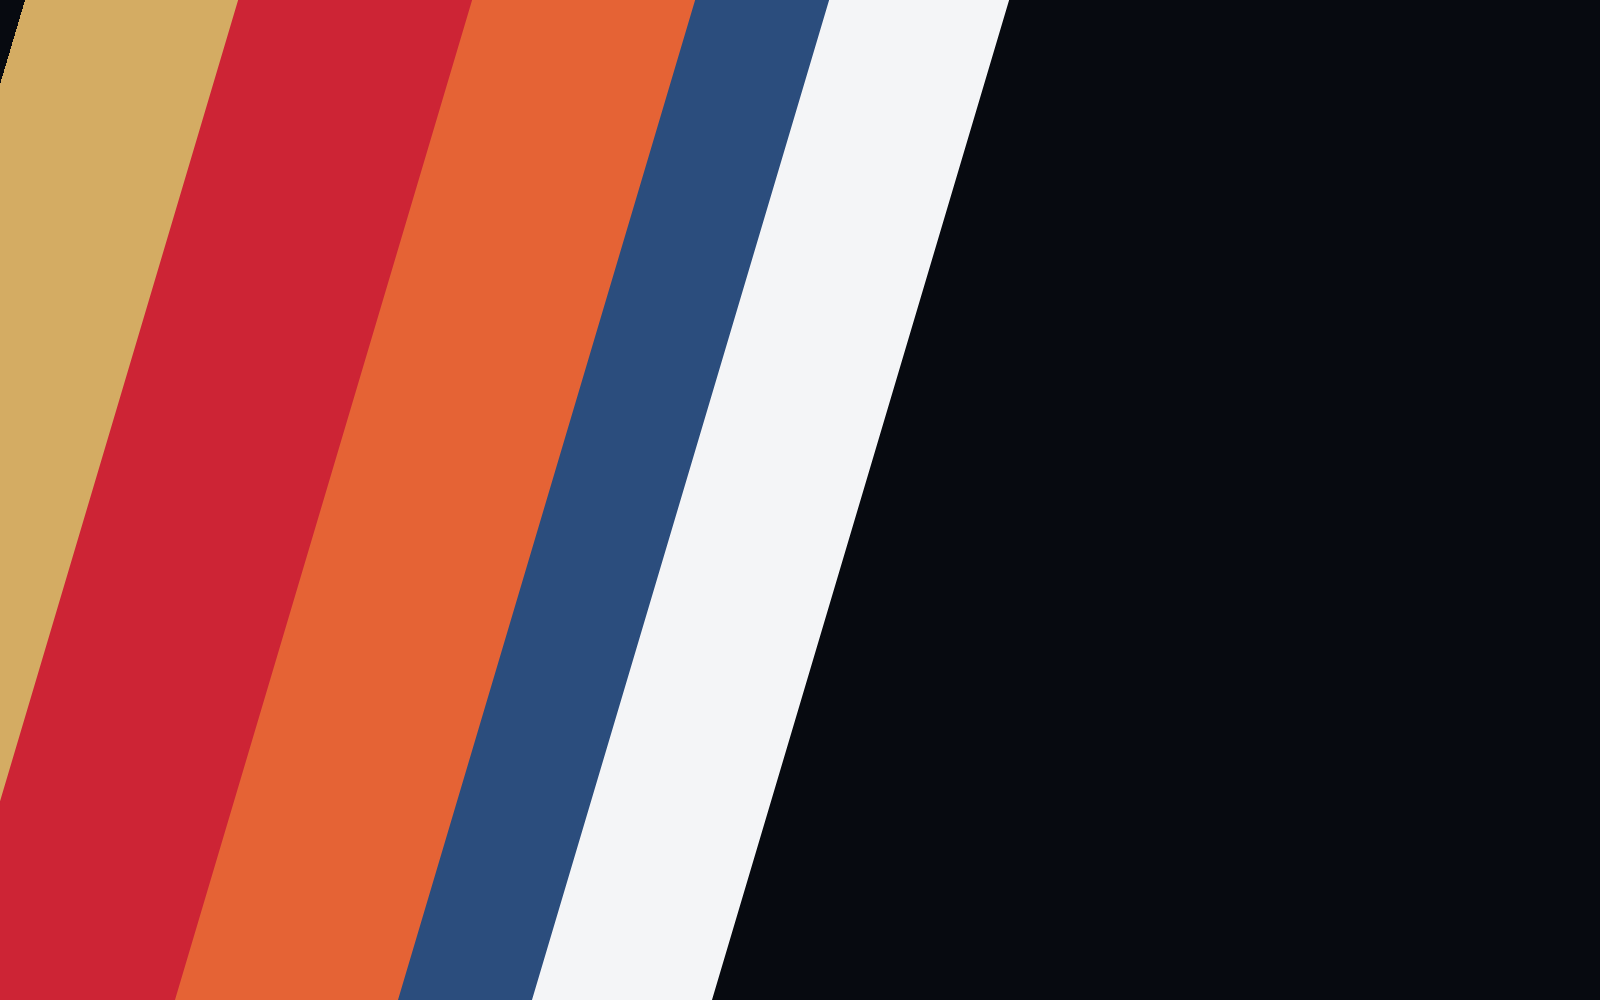
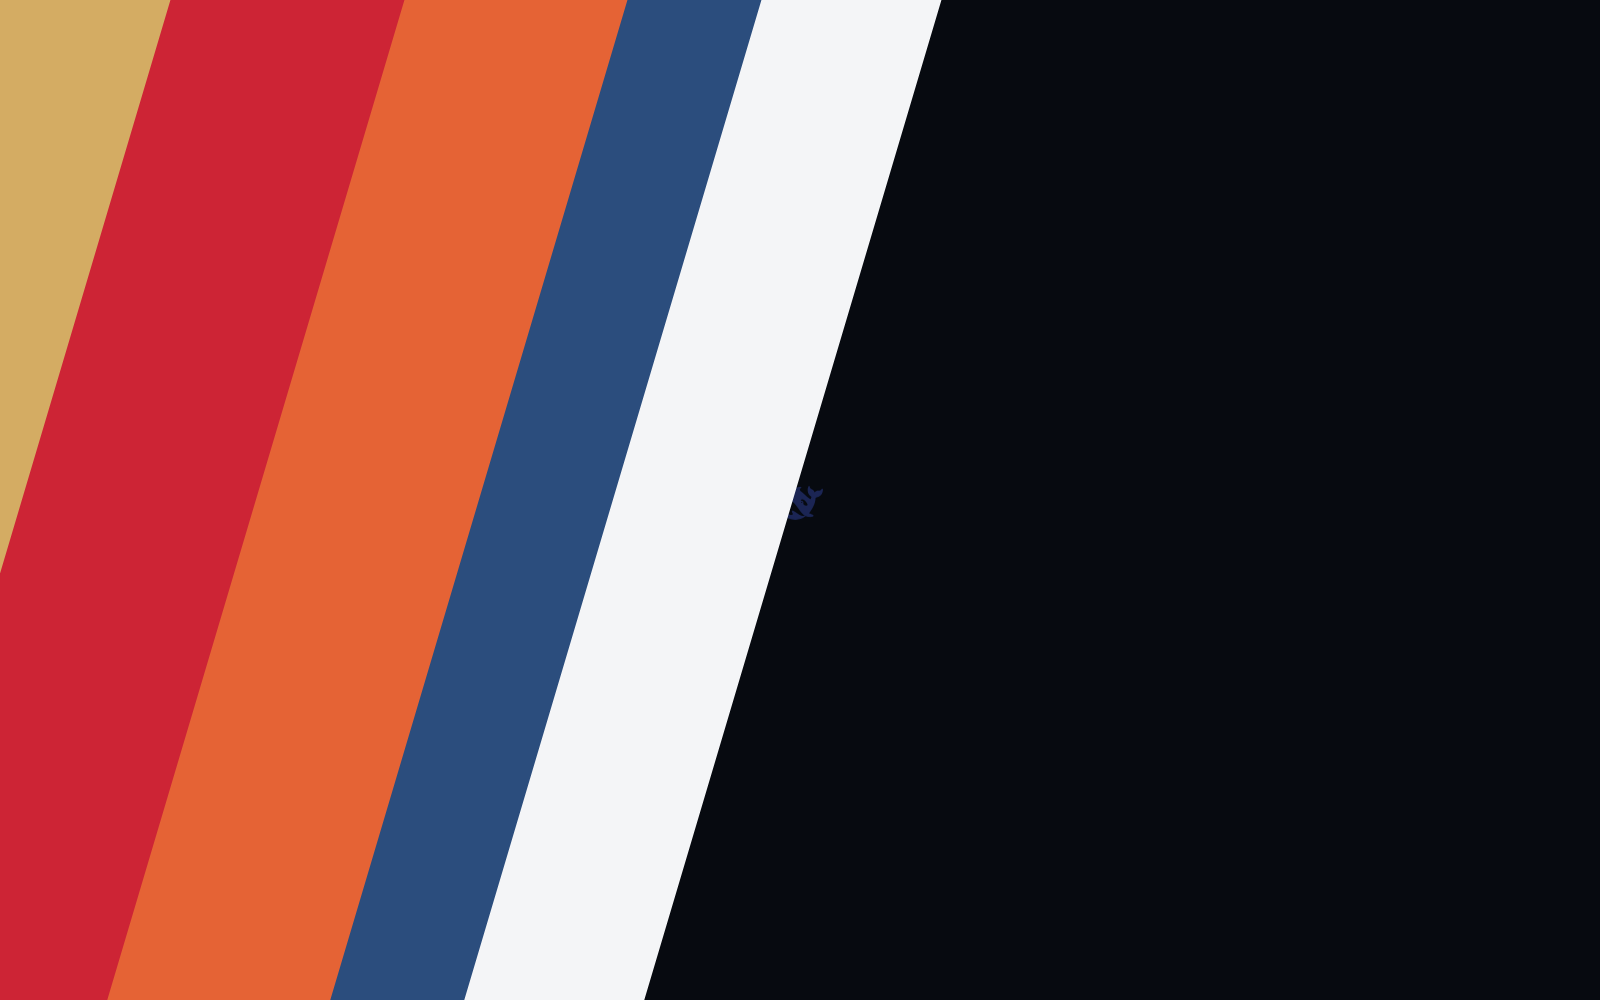
Scope the pre-plugin canvas to the boot interval; document the package
- the Host's dark !important ground now stops applying once html[data-sf-live]
  is set, so the theme owns the document ground after boot
- the client paints that ground from the active palette (read on body, because
  the dark palette lives there), covering the no-canvas case in either slot
- boot test guards the scoping; docs: HANDOFF rewritten for the packaged
  state, DESIGN gains implementation notes (section 11), README + PACKAGE.md

diff --git a/src/client.js b/src/client.js
@@ -237,6 +237,21 @@ function install(ctx) {
   var refreshTimer = 0;
   var appliedMode = currentMode();
   var appliedSignature = '';
+
+  /**
+   * Paint the document ground from the active palette.
+   *
+   * The frame and the transcript are transparent, so `html` is the colour that
+   * shows if the canvas is ever missing (no 2D context, or a browser that
+   * refuses it). It has to come from `body`: the dark palette lives on the body
+   * element, so the root's own `--sf-paper-1` is always the light one.
+   */
+  function paintDocumentGround() {
+    var paper = getComputedStyle(body).getPropertyValue('--sf-paper-1');
+    paper = paper && paper.trim();
+    if (paper) document.documentElement.style.backgroundColor = paper;
+  }
+
   function scheduleRefresh() {
     window.clearTimeout(refreshTimer);
     refreshTimer = window.setTimeout(function () {
@@ -249,10 +264,12 @@ function install(ctx) {
       if (mode === appliedMode && nextSignature === appliedSignature) return;
       appliedMode = mode;
       appliedSignature = nextSignature;
+      paintDocumentGround();
       controller.setMode(mode);
       controller.refresh();
     }, 220);
   }
+  paintDocumentGround();
 
   if (typeof MutationObserver === 'function') {
     var observer = new MutationObserver(scheduleRefresh);

diff --git a/_tools/boot.test.js b/_tools/boot.test.js
@@ -101,8 +101,15 @@ ok('the band carries no unresolved var()', !/var\(--sf-livery/.test(css));
 
 // The readiness flag must retract both marks, and the fallback must exist.
 ok('readiness hides the band', /html\[data-sf-live\]::before\{[^}]*visibility:hidden/.test(css));
+ok('readiness hides the whale', /html\[data-sf-live\] body::before\{[^}]*visibility:hidden/.test(css));
 ok('readiness fades the curtain', /html\[data-sf-live\]::after\{animation:sf-plate-out 220ms/.test(css));
 ok('a fallback retracts the curtain even with no client', /html::after\{[^}]*animation:sf-plate-out 420ms ease-out 6000ms forwards/.test(css));
+
+// The dark pre-plugin canvas must stop applying once the flag is set: an
+// unscoped !important background would outrank the theme's own ground forever.
+ok('the pre-plugin canvas is scoped to the boot interval',
+  /html:not\(\[data-sf-live\]\)/.test(css) && !/(^|[,{])html,body\{background-color/.test(css),
+  css.slice(0, 200));
 
 // Reduced motion: no band, but the whale and the readiness lift stay.
 ok('reduced motion drops the band', /prefers-reduced-motion:reduce\)\{html::before\{display:none\}/.test(css));

diff --git a/src/host.js b/src/host.js
@@ -132,9 +132,12 @@ function bootStyle(markUri, random) {
 
   return [
     /* -- 1. the pre-plugin canvas ------------------------------------------ */
+    // Scoped to the interval before the readiness flag: after it, the document
+    // ground belongs to the theme again (and !important here would otherwise
+    // outrank the palette for the life of the page).
     // `background-color` is !important because ui-theme's own boot row, which
-    // renders after this one, paints `body { background-color: #fff }`.
-    'html,body{background-color:' + ground + ' !important}',
+    // renders before this one, paints `body { background-color: #fff }`.
+    'html:not([data-sf-live]),html:not([data-sf-live]) body{background-color:' + ground + ' !important}',
     // No !important: the presenter writes the resolved scheme as an inline
     // style the moment the app is up, and an inline style is what should win.
     ':root{color-scheme:dark}',

diff --git a/_tools/client.test.js b/_tools/client.test.js
@@ -171,7 +171,9 @@ global.window = windowStub;
 global.document = document;
 global.MutationObserver = MutationObserver;
 global.performance = { now: () => 250 };
-global.getComputedStyle = () => ({ getPropertyValue: () => '' });
+global.getComputedStyle = () => ({
+  getPropertyValue: (name) => (name === '--sf-paper-1' ? '#0A0E15' : '#EAEEF4'),
+});
 global.matchMedia = windowStub.matchMedia;
 
 /* ------------------------------------------------------ load the real bundle */
